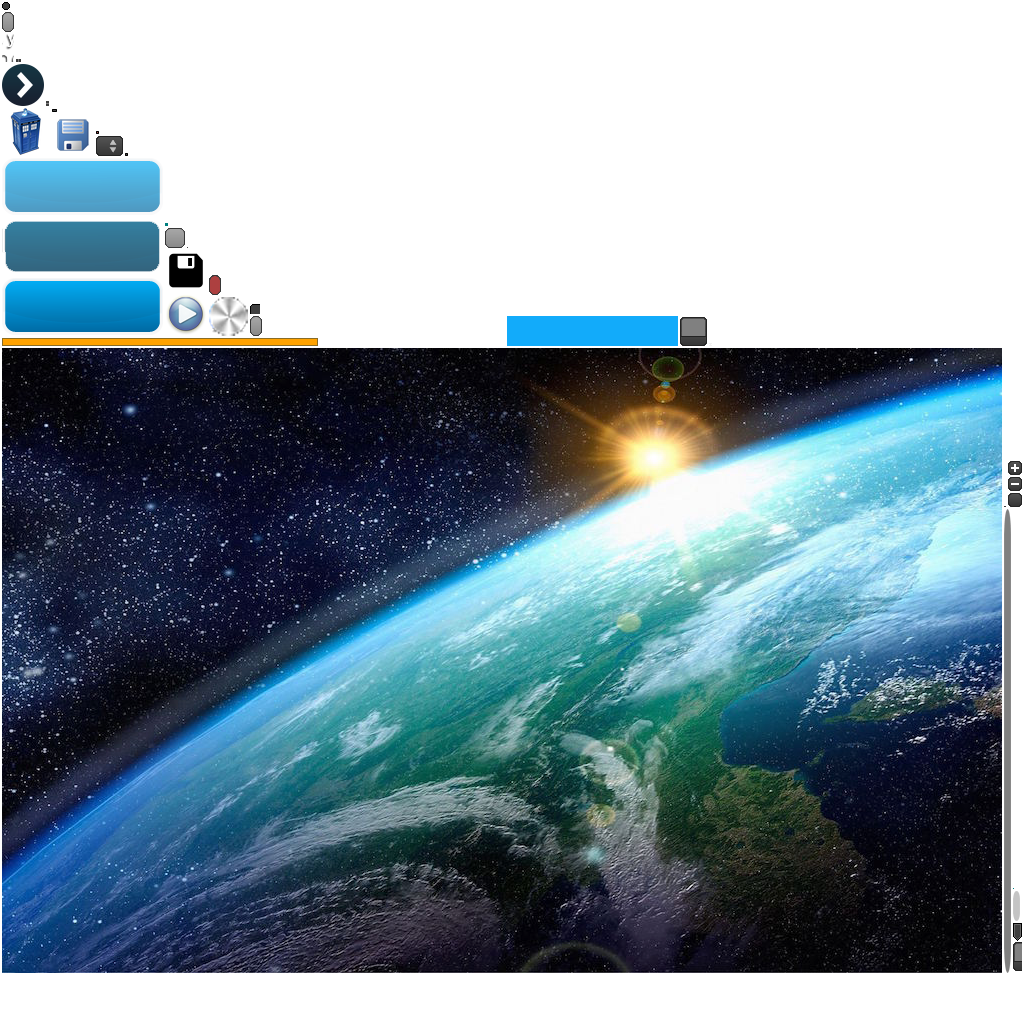
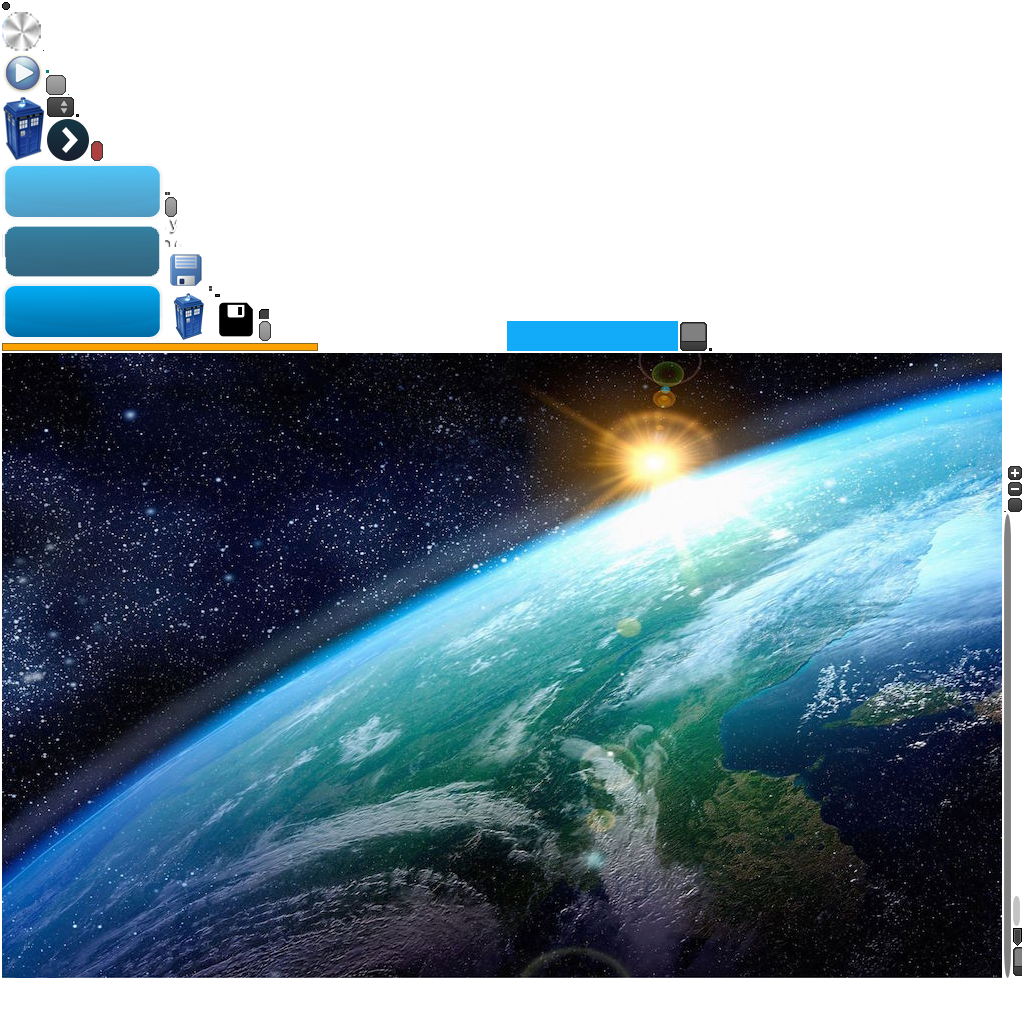
Tidy up button bar

Changed region(s): [[0.0, 0.0, 1.0, 0.9688], [0.9375, 0.8125, 0.9688, 0.8438]]

diff --git a/core/src/com/mygdx/game/screens/CodingScreen.java b/core/src/com/mygdx/game/screens/CodingScreen.java
@@ -55,10 +55,10 @@ public class CodingScreen extends ScreenAdapter {
     }
 
     private void createButtonBar(Viewport viewport, Skin skin) {
-        ImageTextButton undoButton = new ImageTextButton(" Undo", skin, "undo-button");
-        ImageTextButton redoButton = new ImageTextButton(" Redo", skin, "redo-button");
+        TextButton undoButton = new TextButton("Past <", skin, "undo-button");
+        TextButton redoButton = new TextButton("> Future", skin, "redo-button");
         ImageTextButton runButton = new ImageTextButton(" Run", skin, "run-button");
-        ImageTextButton saveButton = new ImageTextButton(" Save", skin, "save-button");
+        ImageTextButton saveButton = new ImageTextButton("Save", skin, "save-button");
         undoButton.addListener(new ChangeListener() {
             public void changed(ChangeEvent event, Actor actor) {
                 commandHistory.undo();
@@ -71,13 +71,24 @@ public class CodingScreen extends ScreenAdapter {
         });
 
         buttonBar = new HorizontalGroup();
-        buttonBar.pad(4);
+        buttonBar.pad(8);
         buttonBar.space(10);
 
+        runButton.padLeft(20);
         buttonBar.addActor(undoButton);
+        buttonBar.addActor(new Image(skin, "tardis2"));
         buttonBar.addActor(redoButton);
+        buttonBar.addActor(spacer(20));
         buttonBar.addActor(saveButton);
         buttonBar.addActor(runButton);
+    }
+
+    private Actor spacer(final int width) {
+        return new Actor() {
+            public float getWidth() {
+                return width;
+            }
+        };
     }
 
     private void createTextArea(Program program, Viewport viewport, Skin skin) {
